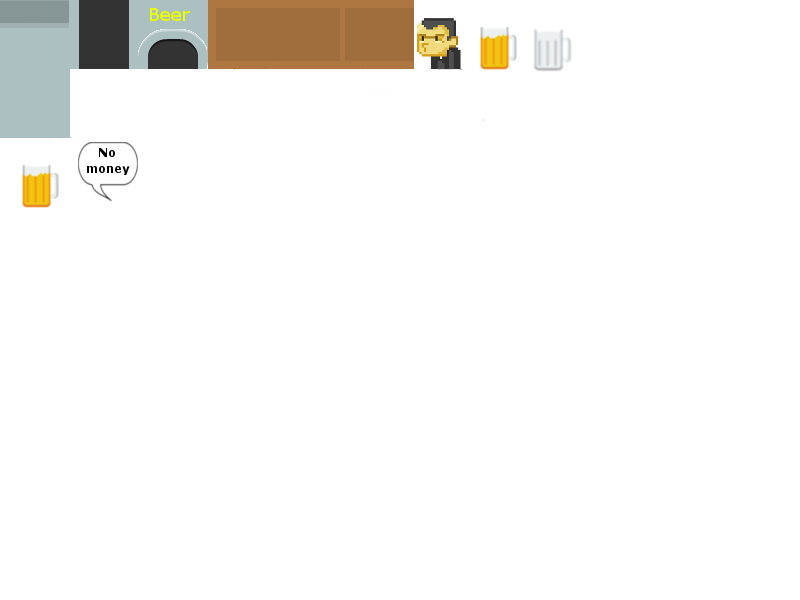
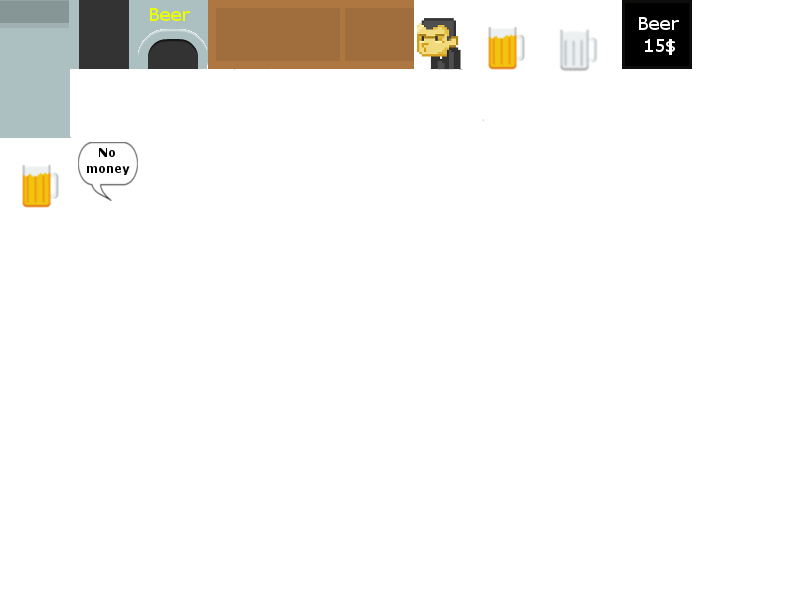
add

Changed region(s): [[0.5938, 0.0, 0.875, 0.12]]

diff --git a/src/Entity/Player.java b/src/Entity/Player.java
@@ -47,6 +47,7 @@ public class Player extends Entity {
         x+=velX;
         y+=velY;
         if (invincible) {
+
             if (facing == 0)
                 handler.addTile(new Trail(getX(), getY(), getWidth(), getHeight(), false, Id.trail, handler, Game.player[3 + frame].getBufferImage()));
             else if (facing == 1)
@@ -85,7 +86,7 @@ public class Player extends Entity {
                 if (getBoundsRight().intersects(t.getBounds())&&t.getId()!=Id.code&&t.getId()!=Id.coins&&t.getId()!=Id.beer&&t.getId()!=Id.blok ){
                     setVelX(0);
                     x = t.getX()-width;
-                    if (t.getId() == Id.finalLevel && Game.countCode == (Game.elemetn-1)){
+                    if (t.getId() == Id.finalLevel && Game.countCode >= (Game.elemetn-1)){
                         x = t.getX()-t.width;
                     }
                 }
@@ -119,7 +120,7 @@ public class Player extends Entity {
 
 
                 if (getBounds().intersects(t.getBounds())){
-                    if (t.getId() == Id.finalLevel && Game.countCode == (Game.elemetn-1)){
+                    if (t.getId() == Id.finalLevel && Game.countCode >= (Game.elemetn-1)){
                         x = t.getX()-t.width;
                         System.out.println(Game.finalPrint);
                         smokingKoz = false;

diff --git a/src/Tile/Bar.java b/src/Tile/Bar.java
@@ -22,8 +22,9 @@ public class Bar extends Tile {
         g.drawImage(Game.bar[5].getBufferImage(), getX()+600, getY()-60, width/12, 60, null);
         g.drawImage(Game.bar[4].getBufferImage(), getX()+660, getY()-60, width/12, 60, null);
         g.drawImage(Game.bar[6].getBufferImage(), getX()+540, getY()-120, width/12, 60, null);
-        g.drawImage(Game.bar[7].getBufferImage(), getX()+600, getY()-120, width/12, 60, null);
-        g.drawImage(Game.bar[8].getBufferImage(), getX()+660, getY()-120, width/12, 60, null);
+        g.drawImage(Game.bar[7].getBufferImage(), getX()+480, getY()-120, width/12, 60, null);
+        g.drawImage(Game.bar[8].getBufferImage(), getX()+600, getY()-120, width/12, 60, null);
+        g.drawImage(Game.bar[9].getBufferImage(), getX()+650, getY()-120, width/12, 60, null);
 
 
 

diff --git a/src/Tile/Beer.java b/src/Tile/Beer.java
@@ -14,7 +14,7 @@ public class Beer extends Tile {
     @Override
     public void render(Graphics g) {
         g.drawImage(Game.beer[0].getBufferImage(), getX(), getY(), width, 60, null);
-        if (noMoney)g.drawImage(Game.beer[1].getBufferImage(), getX()+120, getY()-80, width, 60, null);
+        if (noMoney)g.drawImage(Game.beer[1].getBufferImage(), getX()+140, getY()-90, width, 60, null);
     }
 
     @Override

diff --git a/src/Entity/Bugs.java b/src/Entity/Bugs.java
@@ -20,11 +20,11 @@ public class Bugs extends Entity {
         int dir = random.nextInt(2);
         switch (dir){
             case 0:
-                setVelX(-2);
+                setVelX(-1);
                 facing =0;
                 break;
             case 1:
-                setVelX(2);
+                setVelX(1);
                 facing=1;
                 break;
         }

diff --git a/src/Game/Game.java b/src/Game/Game.java
@@ -86,7 +86,7 @@ public class Game extends Canvas implements Runnable {
         bugs = new Sprite[6];
         koz = new Sprite[6];
         finalLevel = new Sprite[10];
-        bar = new Sprite[9];
+        bar = new Sprite[10];
         cannabis = new Sprite[6];
         beer = new Sprite[2];
         levels = new BufferedImage[5];
